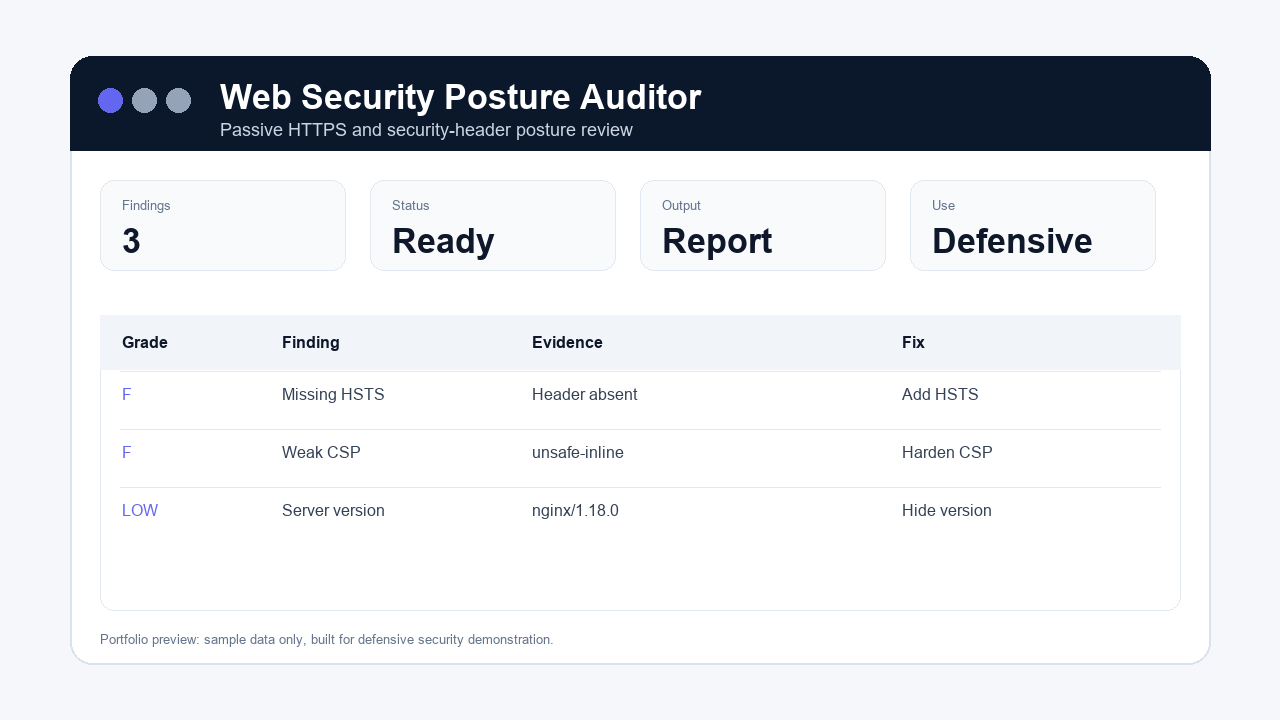
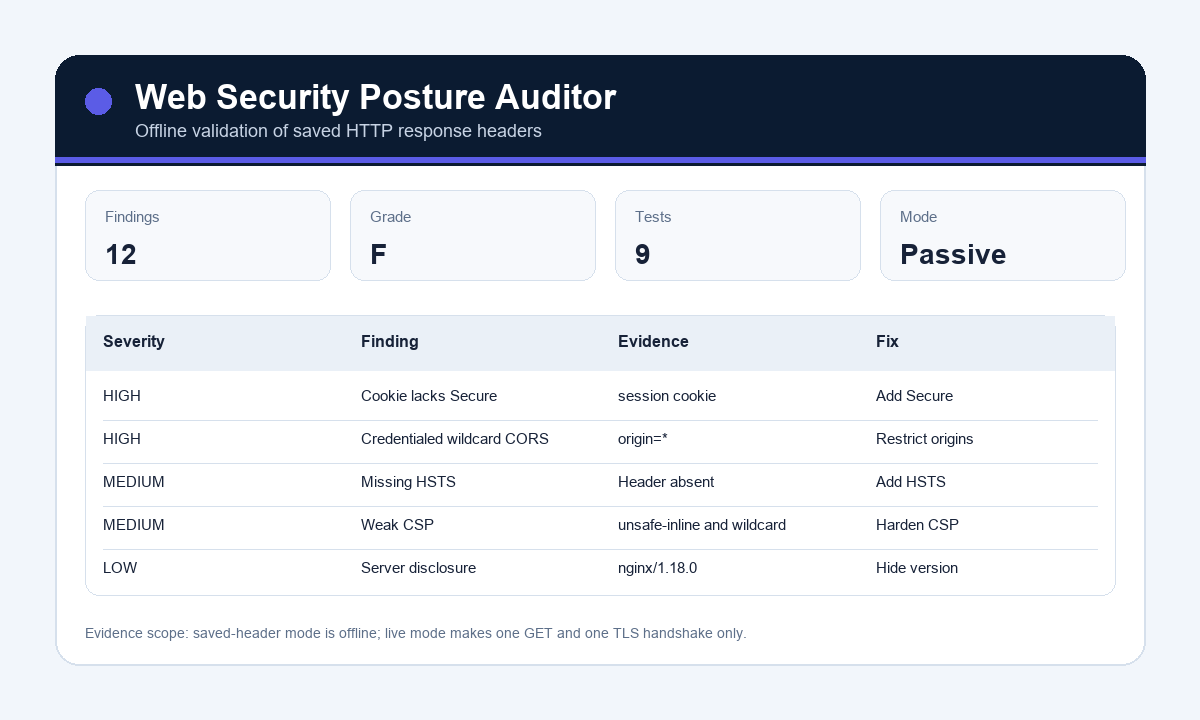
Expand passive web and TLS posture checks

diff --git a/src/web_security_posture_auditor/core.py b/src/web_security_posture_auditor/core.py
@@ -1,9 +1,12 @@
 from __future__ import annotations
 
 import json
+import re
+import socket
 import ssl
 import urllib.request
 from dataclasses import dataclass
+from datetime import datetime, timezone
 from pathlib import Path
 from urllib.parse import urlparse
 
@@ -29,14 +32,33 @@ def fetch_headers(url: str, timeout: int = 8) -> dict[str, str]:
     request = urllib.request.Request(url, method="GET", headers={"User-Agent": "WebSecurityPostureAuditor/1.0"})
     context = ssl.create_default_context()
     with urllib.request.urlopen(request, timeout=timeout, context=context) as response:
-        return {key.lower(): value for key, value in response.headers.items()}
+        headers = {key.lower(): value for key, value in response.headers.items()}
+        cookies = response.headers.get_all("Set-Cookie", [])
+        if cookies:
+            headers["set-cookie"] = "\n".join(cookies)
+        return headers
 
 
 def load_headers(path: str | Path) -> dict[str, str]:
     return {key.lower(): value for key, value in json.loads(Path(path).read_text(encoding="utf-8")).items()}
 
 
-def audit(url: str, headers: dict[str, str]) -> list[Finding]:
+def inspect_tls(url: str, timeout: int = 8) -> dict[str, object]:
+    parsed = urlparse(url)
+    if parsed.scheme != "https" or not parsed.hostname:
+        raise ValueError("TLS inspection requires an https:// URL with a hostname.")
+    context = ssl.create_default_context()
+    with socket.create_connection((parsed.hostname, parsed.port or 443), timeout=timeout) as raw_socket:
+        with context.wrap_socket(raw_socket, server_hostname=parsed.hostname) as tls_socket:
+            certificate = tls_socket.getpeercert()
+            return {
+                "version": tls_socket.version() or "unknown",
+                "cipher": (tls_socket.cipher() or ("unknown",))[0],
+                "not_after": certificate.get("notAfter", ""),
+            }
+
+
+def audit(url: str, headers: dict[str, str], tls: dict[str, object] | None = None) -> list[Finding]:
     findings: list[Finding] = []
     parsed = urlparse(url)
     if parsed.scheme != "https":
@@ -45,6 +67,8 @@ def audit(url: str, headers: dict[str, str]) -> list[Finding]:
         )
 
     for header, recommendation in REQUIRED_HEADERS.items():
+        if header == "x-frame-options" and "frame-ancestors" in headers.get("content-security-policy", ""):
+            continue
         if header not in headers:
             findings.append(
                 Finding("medium", f"Missing {header}", "Header not present", recommendation)
@@ -56,13 +80,62 @@ def audit(url: str, headers: dict[str, str]) -> list[Finding]:
             Finding("medium", "Weak Content Security Policy", csp, "Remove wildcards and unsafe inline script allowances where possible.")
         )
 
+    if csp and "object-src" not in csp:
+        findings.append(Finding("low", "CSP does not define object-src", csp, "Set object-src 'none' unless plugins are explicitly required."))
+    if csp and "base-uri" not in csp:
+        findings.append(Finding("low", "CSP does not define base-uri", csp, "Set base-uri 'self' or 'none' to restrict base URL injection."))
+
+    hsts = headers.get("strict-transport-security", "")
+    max_age = re_search_max_age(hsts)
+    if hsts and (max_age is None or max_age < 15_552_000):
+        findings.append(Finding("medium", "HSTS max-age is too short", hsts, "Use an HSTS max-age of at least 180 days after deployment validation."))
+
+    for cookie in _cookies(headers.get("set-cookie", "")):
+        lower = cookie.lower()
+        name = cookie.split("=", 1)[0].strip() or "unnamed"
+        if "secure" not in lower:
+            findings.append(Finding("high", f"Cookie {name} lacks Secure", cookie, "Add the Secure attribute to session and sensitive cookies."))
+        if "httponly" not in lower:
+            findings.append(Finding("medium", f"Cookie {name} lacks HttpOnly", cookie, "Add HttpOnly unless client-side script access is required."))
+        if "samesite=" not in lower:
+            findings.append(Finding("medium", f"Cookie {name} lacks SameSite", cookie, "Set SameSite=Lax or Strict unless cross-site use is required."))
+
+    allow_origin = headers.get("access-control-allow-origin", "")
+    allow_credentials = headers.get("access-control-allow-credentials", "").lower() == "true"
+    if allow_origin == "*" and allow_credentials:
+        findings.append(Finding("high", "Credentialed CORS uses wildcard origin", "Access-Control-Allow-Origin=* and credentials=true", "Use an explicit allow-list and never combine credentials with a wildcard origin."))
+    elif allow_origin == "*":
+        findings.append(Finding("medium", "CORS allows every origin", "Access-Control-Allow-Origin=*", "Restrict cross-origin access to required trusted origins."))
+
     server = headers.get("server", "")
     if server and any(char.isdigit() for char in server):
         findings.append(
             Finding("low", "Server version disclosure", server, "Avoid exposing exact server versions in HTTP headers.")
         )
 
+    if tls:
+        version = str(tls.get("version", "unknown"))
+        if version in {"TLSv1", "TLSv1.1", "TLS 1.0", "TLS 1.1"}:
+            findings.append(Finding("high", "Legacy TLS protocol negotiated", version, "Disable TLS 1.0 and 1.1; require TLS 1.2 or later."))
+        not_after = str(tls.get("not_after", ""))
+        if not_after:
+            expiry = datetime.strptime(not_after, "%b %d %H:%M:%S %Y %Z").replace(tzinfo=timezone.utc)
+            days = (expiry - datetime.now(timezone.utc)).days
+            if days < 0:
+                findings.append(Finding("high", "TLS certificate is expired", not_after, "Renew and deploy a valid certificate immediately."))
+            elif days < 30:
+                findings.append(Finding("medium", "TLS certificate expires within 30 days", not_after, "Renew the certificate before expiry."))
+
     return findings
+
+
+def re_search_max_age(value: str) -> int | None:
+    match = re.search(r"(?:^|;)\s*max-age\s*=\s*(\d+)", value, re.IGNORECASE)
+    return int(match.group(1)) if match else None
+
+
+def _cookies(value: str) -> list[str]:
+    return [cookie.strip() for cookie in value.splitlines() if cookie.strip()]
 
 
 def grade(findings: list[Finding]) -> str:
@@ -96,4 +169,5 @@ Grade: **{grade(findings)}**
 | --- | --- | --- | --- |
 {rows or '| - | No findings | - | - |'}
 """
+    Path(path).parent.mkdir(parents=True, exist_ok=True)
     Path(path).write_text(report, encoding="utf-8")

diff --git a/tests/test_core.py b/tests/test_core.py
@@ -1,6 +1,8 @@
 import unittest
+import tempfile
+from pathlib import Path
 
-from web_security_posture_auditor.core import audit, grade
+from web_security_posture_auditor.core import audit, grade, inspect_tls, re_search_max_age, write_report
 
 
 class WebAuditorTests(unittest.TestCase):
@@ -12,14 +14,57 @@ class WebAuditorTests(unittest.TestCase):
 
     def test_strong_headers_can_get_a(self):
         headers = {
-            "strict-transport-security": "max-age=31536000",
-            "content-security-policy": "default-src 'self'",
+            "strict-transport-security": "max-age=31536000; includeSubDomains",
+            "content-security-policy": "default-src 'self'; object-src 'none'; base-uri 'self'; frame-ancestors 'none'",
             "x-frame-options": "DENY",
             "x-content-type-options": "nosniff",
             "referrer-policy": "no-referrer",
         }
 
         self.assertEqual(grade(audit("https://example.com", headers)), "A")
+
+    def test_csp_frame_ancestors_can_replace_x_frame_options(self):
+        headers = {
+            "strict-transport-security": "max-age=31536000",
+            "content-security-policy": "default-src 'self'; object-src 'none'; base-uri 'self'; frame-ancestors 'none'",
+            "x-content-type-options": "nosniff",
+            "referrer-policy": "no-referrer",
+        }
+        self.assertFalse(any("x-frame-options" in finding.title for finding in audit("https://example.com", headers)))
+
+    def test_insecure_session_cookie_is_flagged(self):
+        findings = audit("https://example.com", {"set-cookie": "session=abc; Path=/"})
+        titles = {finding.title for finding in findings}
+        self.assertIn("Cookie session lacks Secure", titles)
+        self.assertIn("Cookie session lacks HttpOnly", titles)
+        self.assertIn("Cookie session lacks SameSite", titles)
+
+    def test_credentialed_wildcard_cors_is_high_risk(self):
+        findings = audit("https://example.com", {"access-control-allow-origin": "*", "access-control-allow-credentials": "true"})
+        finding = next(item for item in findings if "Credentialed CORS" in item.title)
+        self.assertEqual(finding.severity, "high")
+
+    def test_short_hsts_is_flagged(self):
+        findings = audit("https://example.com", {"strict-transport-security": "max-age=60"})
+        self.assertTrue(any("too short" in item.title for item in findings))
+        self.assertEqual(re_search_max_age("max-age=60"), 60)
+
+    def test_legacy_tls_is_flagged_from_supplied_evidence(self):
+        findings = audit("https://example.com", {}, {"version": "TLSv1.1"})
+        self.assertTrue(any("Legacy TLS" in item.title for item in findings))
+
+    def test_tls_inspection_rejects_non_https_target(self):
+        with self.assertRaisesRegex(ValueError, "https"):
+            inspect_tls("http://example.com")
+
+    def test_report_contains_grade_and_recommendations(self):
+        findings = audit("https://example.com", {"server": "nginx/1.18.0"})
+        with tempfile.TemporaryDirectory() as directory:
+            path = Path(directory) / "report.md"
+            write_report("https://example.com", findings, path)
+            report = path.read_text(encoding="utf-8")
+        self.assertIn("Grade:", report)
+        self.assertIn("Recommendation", report)
 
 
 if __name__ == "__main__":

diff --git a/src/web_security_posture_auditor/cli.py b/src/web_security_posture_auditor/cli.py
@@ -2,7 +2,7 @@ from __future__ import annotations
 
 import argparse
 
-from .core import audit, fetch_headers, grade, load_headers, write_report
+from .core import audit, fetch_headers, grade, inspect_tls, load_headers, write_report
 
 
 def main() -> int:
@@ -13,7 +13,8 @@ def main() -> int:
     args = parser.parse_args()
 
     headers = load_headers(args.headers_json) if args.headers_json else fetch_headers(args.url)
-    findings = audit(args.url, headers)
+    tls = None if args.headers_json else inspect_tls(args.url)
+    findings = audit(args.url, headers, tls)
     write_report(args.url, findings, args.out)
     print(f"Findings: {len(findings)}")
     print(f"Grade: {grade(findings)}")

diff --git a/docs/examples/example_web_security_report.md b/docs/examples/example_web_security_report.md
@@ -8,5 +8,13 @@ Grade: **F**
 | --- | --- | --- | --- |
 | MEDIUM | Missing strict-transport-security | Header not present | Add HSTS to enforce HTTPS for repeat visitors. |
 | MEDIUM | Missing x-frame-options | Header not present | Add X-Frame-Options or frame-ancestors to reduce clickjacking risk. |
+| MEDIUM | Missing x-content-type-options | Header not present | Add X-Content-Type-Options: nosniff. |
+| MEDIUM | Missing referrer-policy | Header not present | Add a Referrer-Policy to limit sensitive URL leakage. |
 | MEDIUM | Weak Content Security Policy | default-src * 'unsafe-inline' | Remove wildcards and unsafe inline script allowances where possible. |
+| LOW | CSP does not define object-src | default-src * 'unsafe-inline' | Set object-src 'none' unless plugins are explicitly required. |
+| LOW | CSP does not define base-uri | default-src * 'unsafe-inline' | Set base-uri 'self' or 'none' to restrict base URL injection. |
+| HIGH | Cookie session lacks Secure | session=synthetic-value; Path=/ | Add the Secure attribute to session and sensitive cookies. |
+| MEDIUM | Cookie session lacks HttpOnly | session=synthetic-value; Path=/ | Add HttpOnly unless client-side script access is required. |
+| MEDIUM | Cookie session lacks SameSite | session=synthetic-value; Path=/ | Set SameSite=Lax or Strict unless cross-site use is required. |
+| HIGH | Credentialed CORS uses wildcard origin | Access-Control-Allow-Origin=* and credentials=true | Use an explicit allow-list and never combine credentials with a wildcard origin. |
 | LOW | Server version disclosure | nginx/1.18.0 | Avoid exposing exact server versions in HTTP headers. |

diff --git a/README.md b/README.md
@@ -24,6 +24,10 @@ This project shows practical web security awareness: HTTPS, HSTS, CSP, clickjack
 - Audits live URLs or saved header JSON.
 - Checks important security headers.
 - Flags weak Content Security Policy patterns.
+- Reviews HSTS lifetime, CSP `object-src`/`base-uri`, and CSP clickjacking alternatives.
+- Checks Secure, HttpOnly, and SameSite cookie attributes.
+- Flags dangerous CORS combinations.
+- Inspects the negotiated TLS version, cipher, and certificate expiry for live HTTPS targets.
 - Flags server version disclosure.
 - Assigns a simple security grade.
 - Generates a Markdown report.
@@ -43,6 +47,8 @@ set PYTHONPATH=src
 python -m web_security_posture_auditor.cli --headers-json sample_data/headers.json --url https://demo.local
 python -m unittest discover -s tests -v
 ```
+
+Saved-header mode is fully offline and reproducible. Live mode performs one normal HTTPS request plus a TLS handshake; it does not crawl, fuzz, authenticate, or exploit the target.
 
 ## Responsible Use
 